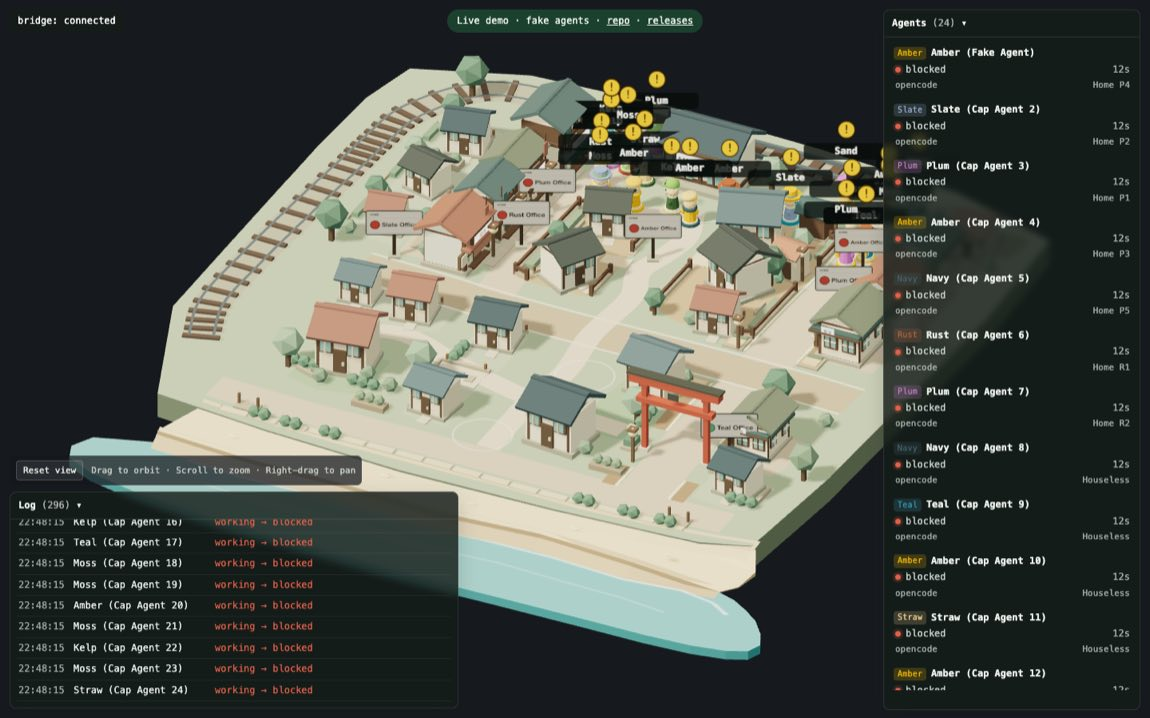
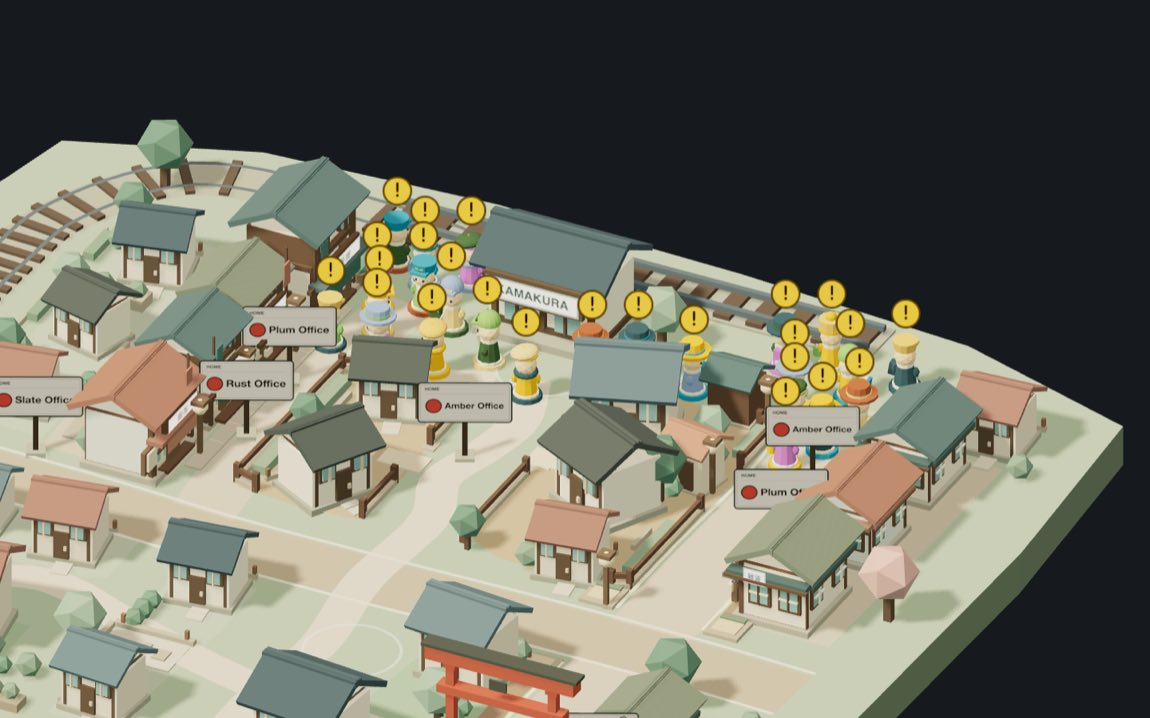
Fix the spot and approach defects the review found
Four defects, all reproduced against the FAKE cap scenario:

- A resident whose status changed mid-approach settled on the spot it no
  longer held, and the next resident to claim that spot settled on top of it.
  An approach to a spot the resident no longer owns is now abandoned, and a
  finished approach rejects a stale spot instead of parking on it.
- A housed resident standing at an area spot whose entrance was also its
  house returned early and stayed outside with its lamp off. The early return
  now also requires the area and spot to still match.
- Seven of 72 approaches crossed dune bushes or a building. Every spot was
  re-probed against the built scene over the whole pawn disc and along its
  approach, and the entrances were re-picked from the nearest node with a
  clear straight walk. Minimum pairwise spacing inside an area is now 0.551.
- At the cap the name tags overlapped into a black band that hid the
  characters they named. Tags are drawn at eight residents or fewer and for
  whichever resident is highlighted; the badge drops to its no-tag height so
  it does not hang where the tag was.

The determinism test now proves the look is identical across two separate
processes rather than twice in one, and the remaining test hook is DEV-only.

diff --git a/src/areas.ts b/src/areas.ts
@@ -1,8 +1,8 @@
 // Standing spots for the three resident areas: the beach (idle), the station
 // platform (blocked) and the town work area (working/done without a house).
-// Each spot was probed against the built scene at 0.25 world units: walkable
-// ground, clear of props, and a straight unobstructed walk from its entrance
-// graph node. Minimum pairwise distance inside an area is 0.559, so characters
+// Each spot was probed against the built scene: walkable ground, clear of props
+// over the whole pawn disc, and a straight unobstructed walk from its entrance
+// graph node. Minimum pairwise distance inside an area is 0.551, so characters
 // stand apart for any count up to the visible cap.
 export type AreaName = "beach" | "station" | "worksite";
 
@@ -16,80 +16,77 @@ export interface AreaSpot {
 }
 
 export const AREA_SPOTS: readonly AreaSpot[] = [
-  // beach
   { id: "beach-01", area: "beach", entrance: "F-W", x: -5.5, y: 0.549, z: 6.25 },
   { id: "beach-02", area: "beach", entrance: "F-W", x: -4.75, y: 0.556, z: 6.25 },
-  { id: "beach-03", area: "beach", entrance: "F-W", x: -4, y: 0.59, z: 6.25 },
+  { id: "beach-03", area: "beach", entrance: "F-W", x: -4.0, y: 0.542, z: 6.45 },
   { id: "beach-04", area: "beach", entrance: "CJ-C", x: -2.5, y: 0.59, z: 6.25 },
   { id: "beach-05", area: "beach", entrance: "CJ-C", x: -1.5, y: 0.59, z: 6.25 },
   { id: "beach-06", area: "beach", entrance: "CJ-C", x: -0.75, y: 0.59, z: 6.25 },
   { id: "beach-07", area: "beach", entrance: "CJ-C", x: 0.5, y: 0.59, z: 6.25 },
   { id: "beach-08", area: "beach", entrance: "CJ-C", x: 1.25, y: 0.59, z: 6.25 },
   { id: "beach-09", area: "beach", entrance: "CJ-C", x: 2.25, y: 0.59, z: 6.25 },
-  { id: "beach-10", area: "beach", entrance: "CJ-E", x: 3.5, y: 0.59, z: 6.25 },
-  { id: "beach-11", area: "beach", entrance: "P5", x: 4.25, y: 0.59, z: 6.25 },
-  { id: "beach-12", area: "beach", entrance: "F-W", x: -3.5, y: 0.539, z: 6.5 },
-  { id: "beach-13", area: "beach", entrance: "CJ-C", x: 0, y: 0.542, z: 6.5 },
-  { id: "beach-14", area: "beach", entrance: "CJ-E", x: 3, y: 0.545, z: 6.5 },
+  { id: "beach-10", area: "beach", entrance: "F-E", x: 4.0, y: 0.531, z: 6.6 },
+  { id: "beach-11", area: "beach", entrance: "F-E", x: 4.54, y: 0.55, z: 6.36 },
+  { id: "beach-12", area: "beach", entrance: "CJ-C", x: -3.45, y: 0.54, z: 6.5 },
+  { id: "beach-13", area: "beach", entrance: "CJ-C", x: 0.0, y: 0.542, z: 6.5 },
+  { id: "beach-14", area: "beach", entrance: "CJ-E", x: 3.0, y: 0.545, z: 6.5 },
   { id: "beach-15", area: "beach", entrance: "F-W", x: -5.25, y: 0.525, z: 6.75 },
   { id: "beach-16", area: "beach", entrance: "CJ-C", x: -0.5, y: 0.525, z: 6.75 },
   { id: "beach-17", area: "beach", entrance: "CJ-C", x: 1.5, y: 0.525, z: 6.75 },
   { id: "beach-18", area: "beach", entrance: "CJ-C", x: 2.5, y: 0.525, z: 6.75 },
   { id: "beach-19", area: "beach", entrance: "F-W", x: -4.25, y: 0.525, z: 7.0 },
   { id: "beach-20", area: "beach", entrance: "F-W", x: -2.75, y: 0.525, z: 7.0 },
-  { id: "beach-21", area: "beach", entrance: "CJ-C", x: -2, y: 0.525, z: 7.0 },
-  { id: "beach-22", area: "beach", entrance: "CJ-C", x: -1, y: 0.525, z: 7.0 },
+  { id: "beach-21", area: "beach", entrance: "CJ-C", x: -2.0, y: 0.525, z: 7.0 },
+  { id: "beach-22", area: "beach", entrance: "CJ-C", x: -1.0, y: 0.525, z: 7.0 },
   { id: "beach-23", area: "beach", entrance: "CJ-C", x: 0.75, y: 0.525, z: 7.0 },
-  { id: "beach-24", area: "beach", entrance: "CJ-C", x: 2, y: 0.525, z: 7.0 },
-  // station
-  { id: "station-01", area: "station", entrance: "road-2-N", x: 3, y: 0.59, z: -6.75 },
-  { id: "station-02", area: "station", entrance: "road-2-N", x: 4, y: 0.59, z: -6.75 },
+  { id: "beach-24", area: "beach", entrance: "CJ-C", x: 2.0, y: 0.525, z: 7.0 },
+  { id: "station-01", area: "station", entrance: "road-2-N", x: 3.0, y: 0.59, z: -6.75 },
+  { id: "station-02", area: "station", entrance: "road-2-N", x: 4.0, y: 0.59, z: -6.75 },
   { id: "station-03", area: "station", entrance: "road-1-N", x: -2.75, y: 0.59, z: -6.5 },
   { id: "station-04", area: "station", entrance: "road-1-N", x: -1.75, y: 0.59, z: -6.5 },
   { id: "station-05", area: "station", entrance: "road-2-N", x: 2.5, y: 0.59, z: -6.5 },
   { id: "station-06", area: "station", entrance: "road-1-N", x: -2.25, y: 0.59, z: -6.25 },
   { id: "station-07", area: "station", entrance: "road-2-N", x: 3.5, y: 0.59, z: -6.25 },
-  { id: "station-08", area: "station", entrance: "Onari-north", x: -2, y: 0.6, z: -5.75 },
-  { id: "station-09", area: "station", entrance: "road-2-N", x: 3, y: 0.59, z: -5.75 },
+  { id: "station-08", area: "station", entrance: "Onari-north", x: -2.0, y: 0.6, z: -5.75 },
+  { id: "station-09", area: "station", entrance: "road-2-N", x: 3.0, y: 0.59, z: -5.75 },
   { id: "station-10", area: "station", entrance: "Onari-north", x: -2.5, y: 0.6, z: -5.5 },
   { id: "station-11", area: "station", entrance: "Onari-north", x: -1.5, y: 0.59, z: -5.5 },
-  { id: "station-12", area: "station", entrance: "S-3", x: 1, y: 0.59, z: -5.5 },
+  { id: "station-12", area: "station", entrance: "S-3", x: 1.0, y: 0.59, z: -5.5 },
   { id: "station-13", area: "station", entrance: "S-3", x: 1.75, y: 0.59, z: -5.5 },
-  { id: "station-14", area: "station", entrance: "P3", x: 4, y: 0.602, z: -5.5 },
+  { id: "station-14", area: "station", entrance: "P3", x: 4.0, y: 0.602, z: -5.5 },
   { id: "station-15", area: "station", entrance: "S-3", x: 0.5, y: 0.59, z: -5.25 },
   { id: "station-16", area: "station", entrance: "P3", x: 3.25, y: 0.602, z: -5.25 },
-  { id: "station-17", area: "station", entrance: "road-7-N", x: -2.25, y: 0.6, z: -5 },
-  { id: "station-18", area: "station", entrance: "road-7-S", x: -0.75, y: 0.59, z: -5 },
-  { id: "station-19", area: "station", entrance: "P3", x: 3.75, y: 0.602, z: -5 },
-  { id: "station-20", area: "station", entrance: "CJ-OW", x: -2.75, y: 0.6, z: -4.5 },
-  { id: "station-21", area: "station", entrance: "road-7-N", x: -2, y: 0.614, z: -4.5 },
+  { id: "station-17", area: "station", entrance: "road-7-N", x: -2.25, y: 0.6, z: -5.0 },
+  { id: "station-18", area: "station", entrance: "road-7-S", x: -0.75, y: 0.59, z: -5.0 },
+  { id: "station-19", area: "station", entrance: "P3", x: 3.75, y: 0.602, z: -5.0 },
+  { id: "station-20", area: "station", entrance: "CJ-OW", x: -2.65, y: 0.6, z: -4.5 },
+  { id: "station-21", area: "station", entrance: "road-7-N", x: -2.0, y: 0.614, z: -4.5 },
   { id: "station-22", area: "station", entrance: "road-7-S", x: -1.25, y: 0.614, z: -4.5 },
-  { id: "station-23", area: "station", entrance: "road-5-N", x: 0, y: 0.61, z: -4.5 },
+  { id: "station-23", area: "station", entrance: "road-5-N", x: 0.0, y: 0.61, z: -4.5 },
   { id: "station-24", area: "station", entrance: "P3", x: 3.5, y: 0.602, z: -4.5 },
-  // worksite
-  { id: "worksite-01", area: "worksite", entrance: "J-5-6", x: -1, y: 0.59, z: 3.25 },
+  { id: "worksite-01", area: "worksite", entrance: "J-5-6", x: -1.0, y: 0.59, z: 3.25 },
   { id: "worksite-02", area: "worksite", entrance: "J-5-6", x: 0.25, y: 0.61, z: 3.25 },
   { id: "worksite-03", area: "worksite", entrance: "J-5-6", x: -0.5, y: 0.59, z: 3.75 },
-  { id: "worksite-04", area: "worksite", entrance: "road-2-S", x: 4.5, y: 0.59, z: 4 },
-  { id: "worksite-05", area: "worksite", entrance: "CF-W", x: -4.5, y: 0.596, z: 4.25 },
-  { id: "worksite-06", area: "worksite", entrance: "P5", x: 3.5, y: 0.602, z: 4.25 },
-  { id: "worksite-07", area: "worksite", entrance: "road-5-S", x: 0, y: 0.61, z: 4.5 },
-  { id: "worksite-08", area: "worksite", entrance: "CF-W", x: -4.25, y: 0.59, z: 4.75 },
-  { id: "worksite-09", area: "worksite", entrance: "road-5-S", x: -1, y: 0.59, z: 4.75 },
-  { id: "worksite-10", area: "worksite", entrance: "road-2-S", x: 4, y: 0.602, z: 4.75 },
-  { id: "worksite-11", area: "worksite", entrance: "road-5-S", x: 0.75, y: 0.606, z: 5 },
-  { id: "worksite-12", area: "worksite", entrance: "road-5-S", x: 1.5, y: 0.606, z: 5 },
-  { id: "worksite-13", area: "worksite", entrance: "road-2-S", x: 2.75, y: 0.606, z: 5 },
+  { id: "worksite-04", area: "worksite", entrance: "road-2-S", x: 4.5, y: 0.59, z: 4.0 },
+  { id: "worksite-05", area: "worksite", entrance: "CF-W", x: -4.4, y: 0.596, z: 4.25 },
+  { id: "worksite-06", area: "worksite", entrance: "road-2-S", x: 3.5, y: 0.602, z: 4.25 },
+  { id: "worksite-07", area: "worksite", entrance: "road-5-S", x: 0.0, y: 0.61, z: 4.5 },
+  { id: "worksite-08", area: "worksite", entrance: "CF-W", x: -4.29, y: 0.59, z: 4.79 },
+  { id: "worksite-09", area: "worksite", entrance: "road-5-S", x: -1.0, y: 0.59, z: 4.75 },
+  { id: "worksite-10", area: "worksite", entrance: "road-2-S", x: 4.0, y: 0.602, z: 4.75 },
+  { id: "worksite-11", area: "worksite", entrance: "road-5-S", x: 0.75, y: 0.606, z: 5.0 },
+  { id: "worksite-12", area: "worksite", entrance: "road-5-S", x: 1.5, y: 0.606, z: 5.0 },
+  { id: "worksite-13", area: "worksite", entrance: "road-2-S", x: 2.75, y: 0.606, z: 5.0 },
   { id: "worksite-14", area: "worksite", entrance: "CF-W", x: -4.75, y: 0.606, z: 5.25 },
   { id: "worksite-15", area: "worksite", entrance: "CJ-C", x: -1.5, y: 0.606, z: 5.25 },
   { id: "worksite-16", area: "worksite", entrance: "CJ-C", x: -0.25, y: 0.606, z: 5.25 },
   { id: "worksite-17", area: "worksite", entrance: "CF-E", x: 4.75, y: 0.606, z: 5.25 },
   { id: "worksite-18", area: "worksite", entrance: "CF-W", x: -3.75, y: 0.606, z: 5.5 },
   { id: "worksite-19", area: "worksite", entrance: "CJ-E", x: 3.5, y: 0.606, z: 5.5 },
-  { id: "worksite-20", area: "worksite", entrance: "CJ-C", x: -1, y: 0.59, z: 5.75 },
+  { id: "worksite-20", area: "worksite", entrance: "CJ-C", x: -1.0, y: 0.59, z: 5.75 },
   { id: "worksite-21", area: "worksite", entrance: "CJ-C", x: 0.75, y: 0.59, z: 5.75 },
   { id: "worksite-22", area: "worksite", entrance: "CJ-C", x: 1.5, y: 0.59, z: 5.75 },
-  { id: "worksite-23", area: "worksite", entrance: "CJ-E", x: 2.25, y: 0.59, z: 5.75 },
+  { id: "worksite-23", area: "worksite", entrance: "road-2-S", x: 2.25, y: 0.59, z: 5.75 },
   { id: "worksite-24", area: "worksite", entrance: "CJ-E", x: 4.25, y: 0.59, z: 5.75 },
 ];
 

diff --git a/src/director.ts b/src/director.ts
@@ -42,6 +42,22 @@ const DOORSTEP_SECONDS = 0.9;
 /** Residents drawn as characters. The Roster still lists everyone. */
 export const VISIBLE_CAP = 24;
 
+/**
+ * Above this many residents the name tags are hidden: a tag is 1.75 world units
+ * wide and area spots sit 0.55 apart, so a full town turns the tags into one
+ * black band that hides the characters. The Roster and the highlight ring carry
+ * the names instead. Below it the town looks exactly as it did with the cast.
+ */
+const TAG_LIMIT = 8;
+/** Badge height with the tag shown, and the tag's clearance above it. */
+const BADGE_Y = 1.52;
+const TAG_GAP = 0.46;
+
+/** Whether a resident's name tag is drawn at this town size. */
+export function tagVisibleFor(actorCount: number, highlighted: boolean): boolean {
+  return actorCount <= TAG_LIMIT || highlighted;
+}
+
 const HOMES_KEY = "agent-machi.homes";
 
 interface DoorState {
@@ -77,6 +93,7 @@ interface Actor {
   fade: FadeController;
   ring: THREE.Mesh;
   tag: NameTag;
+  showTag: boolean;
   badge: StatusBadgeSprite;
   highlightTimer: ReturnType<typeof setTimeout> | null;
   debounceTimer: ReturnType<typeof setTimeout> | null;
@@ -199,9 +216,11 @@ export class Director {
     const actor = this.actors.get(paneId);
     if (!actor) return false;
     actor.ring.visible = true;
+    actor.showTag = true;
     if (actor.highlightTimer) clearTimeout(actor.highlightTimer);
     actor.highlightTimer = setTimeout(() => {
       actor.ring.visible = false;
+      actor.showTag = false;
       actor.highlightTimer = null;
     }, 2500);
     return true;
@@ -239,9 +258,22 @@ export class Director {
       if (actor.door) this.updateDoor(actor, dtSeconds);
       else if (actor.moving) actor.animator.update(dtSeconds);
       this.syncHeadBadge(actor);
+      this.syncTag(actor);
       actor.badge.update(dtSeconds);
     }
     for (const sign of this.homeSigns.values()) sign.update(dtSeconds);
+  }
+
+  /**
+   * Name tags survive a small town but not a full one: at the cap they cover
+   * each other and the characters. A highlighted resident always shows its tag.
+   * A hidden tag takes its height with it, so the status badge drops to just
+   * over the hat instead of hanging in the air where the tag used to be.
+   */
+  private syncTag(actor: Actor): void {
+    const drawn = tagVisibleFor(this.actors.size, actor.showTag);
+    actor.tag.sprite.visible = drawn && actor.traveler.visible && !actor.inside;
+    actor.badge.sprite.position.y = drawn ? BADGE_Y : BADGE_Y - TAG_GAP;
   }
 
   private setBridgeState(state: "connecting" | "online" | "offline", text: string): void {
@@ -394,12 +426,9 @@ export class Director {
     ring.visible = false;
 
     const tag = createNameTag(look.torso.name);
-    // Two tag rows, split by the resident's own hash: at the cap a single row
-    // of 24 tags overlaps into a black band and hides the characters.
-    const tagY = hash % 2 === 0 ? 1.02 : 1.30;
-    tag.sprite.position.y = tagY;
+    tag.sprite.position.y = 1.02;
     const badge = new StatusBadgeSprite(["!", "check", "work"], 0.36);
-    badge.sprite.position.set(0, tagY + 0.5, 0.02);
+    badge.sprite.position.set(0, BADGE_Y, 0.02);
     badge.sprite.renderOrder = 4;
 
     const actor: Actor = {
@@ -423,6 +452,7 @@ export class Director {
       fade: null as unknown as FadeController,
       ring,
       tag,
+      showTag: false,
       badge,
       highlightTimer: null,
       debounceTimer: null,
@@ -511,8 +541,11 @@ export class Director {
     } else if (actor.door?.kind === "door" && actor.door.phase === "entering") {
       this.abortEnter(actor);
     }
-    if (area === null && actor.door?.kind === "spot" && actor.door.phase === "entering") {
-      this.abortSpotApproach(actor);
+    // An approach to a spot the resident no longer holds is abandoned, never
+    // finished: finishing it would park the pawn on a spot another resident
+    // may already own.
+    if (actor.door?.kind === "spot" && actor.door.phase === "entering") {
+      if (actor.door.spotId !== actor.areaSpot) this.abortSpotApproach(actor);
     }
 
     if (actor.door) {
@@ -529,9 +562,17 @@ export class Director {
     if (actor.atSpot) {
       if (!standing) {
         actor.atSpot = false;
-      } else if (target === standing.entrance) {
+      } else if (
+        area === standing.area &&
+        actor.areaSpot === standing.id &&
+        target === standing.entrance
+      ) {
+        // Already standing where this status wants it.
         return;
       } else {
+        // Includes the case where a house happened to be reachable from the
+        // entrance this resident is standing at: the spot is released, so it
+        // still has to walk back before it can enter.
         this.beginSpotReturn(actor, standing);
         this.releaseSpot(actor);
         return;
@@ -685,13 +726,19 @@ export class Director {
     if (door.kind === "spot") {
       const spot = door.spotId ? spotById(door.spotId) : null;
       if (door.phase === "entering") {
+        if (door.spotId !== actor.areaSpot) {
+          // The status moved on while this walk was in flight. Do not settle
+          // on a spot the resident no longer holds: another resident may own it.
+          actor.moving = false;
+          this.placeAtNode(actor, actor.node);
+          logLine(`${actor.paneId} spot ${door.spotId ?? "?"} no longer wanted`);
+          this.retarget(actor);
+          return;
+        }
         actor.atSpot = true;
         actor.moving = false;
         actor.traveler.position.set(spot?.x ?? door.toX, spot?.y ?? this.groundY, spot?.z ?? door.toZ);
         logLine(`${actor.paneId} at spot ${door.spotId ?? "?"}`);
-        // The status may have moved on while this walk was in flight; the
-        // resident is now standing somewhere its current status does not want.
-        if (actor.areaSpot !== door.spotId) this.retarget(actor);
       } else {
         actor.atSpot = false;
         this.placeAtNode(actor, actor.node);

diff --git a/test/areas.test.ts b/test/areas.test.ts
@@ -1,6 +1,8 @@
 import assert from "node:assert/strict";
 import test from "node:test";
 import { AREA_SPOTS, pickAreaSpot, spotById, type AreaName } from "../src/areas.ts";
+import { planRoute } from "../src/planner.ts";
+import { loadGraph } from "../src/town/graph/graph.ts";
 
 const AREAS: AreaName[] = ["beach", "station", "worksite"];
 const MIN_SPACING = 0.5;
@@ -23,6 +25,22 @@ test("every spot names an entrance and sits on a walkable surface", () => {
   for (const spot of AREA_SPOTS) {
     assert.ok(spot.entrance.length > 0, spot.id);
     assert.ok(spot.y >= 0.5 && spot.y <= 0.63, `${spot.id} surface ${spot.y}`);
+  }
+});
+
+test("every spot's entrance node is walkable and actually connects to it", () => {
+  const graph = loadGraph();
+  for (const spot of AREA_SPOTS) {
+    const node = graph.nodes.get(spot.entrance);
+    assert.ok(node, `${spot.id} entrance ${spot.entrance} is not a graph node`);
+    assert.equal(node.runtimeCollisionStatus, "FINITE_SAMPLE_PASS", `${spot.entrance} is not walkable`);
+    // The coastal band is only reachable along the path, so its far spots walk
+    // in from CJ-C; 3.9 is the longest authored approach plus slack.
+    assert.ok(
+      Math.hypot(node.worldX - spot.x, node.worldZ - spot.z) <= 3.9,
+      `${spot.id} sits ${Math.hypot(node.worldX - spot.x, node.worldZ - spot.z).toFixed(2)} from ${spot.entrance}`,
+    );
+    assert.ok(planRoute(graph, "S", spot.entrance), `no route from S to ${spot.entrance}`);
   }
 });
 

diff --git a/test/characters.test.ts b/test/characters.test.ts
@@ -1,11 +1,24 @@
 import assert from "node:assert/strict";
+import { execFileSync } from "node:child_process";
 import test from "node:test";
 import { MODULES, PALETTE, lookFor } from "../src/characters.ts";
 
-test("the same resident id always gets the same module and colours", () => {
-  for (const paneId of ["ext:ci:1", "fake:p1", "w7:p2", "ext:opencode:mac-mini-ses_abc"]) {
-    assert.deepEqual(lookFor(paneId), lookFor(paneId));
-  }
+/** Looks computed by a fresh Node process, so nothing in this one can carry over. */
+function lookForInFreshProcess(paneIds: readonly string[]): unknown {
+  const module = new URL("../src/characters.ts", import.meta.url).href;
+  const script = `import { lookFor } from ${JSON.stringify(module)};
+const ids = ${JSON.stringify(paneIds)};
+process.stdout.write(JSON.stringify(ids.map((id) => lookFor(id))));`;
+  const out = execFileSync(process.execPath, ["--experimental-strip-types", "--input-type=module", "-e", script], {
+    encoding: "utf8",
+  });
+  return JSON.parse(out);
+}
+
+test("the same resident id gets the same look in two separate processes", () => {
+  const ids = ["ext:ci:1", "fake:p1", "w7:p2", "ext:opencode:mac-mini-ses_abc"];
+  assert.deepEqual(lookForInFreshProcess(ids), lookForInFreshProcess(ids));
+  assert.deepEqual(lookForInFreshProcess(ids), ids.map((id) => lookFor(id)));
 });
 
 test("ids from every bridge mode get a look, and different ids differ somewhere", () => {

diff --git a/test/tags.test.ts b/test/tags.test.ts
@@ -1,0 +1,14 @@
+import assert from "node:assert/strict";
+import test from "node:test";
+import { tagVisibleFor } from "../src/director.ts";
+
+test("name tags are drawn in a small town and withheld at the cap", () => {
+  // A tag is 1.75 world units wide and area spots sit 0.55 apart, so a full
+  // town can only draw them as one black band over the characters.
+  assert.equal(tagVisibleFor(6, false), true, "the old cast keeps its tags");
+  assert.equal(tagVisibleFor(8, false), true, "the last size that still fits");
+  assert.equal(tagVisibleFor(9, false), false, "one more and they collide");
+  assert.equal(tagVisibleFor(24, false), false, "the cap has no room for tags");
+  // Picking a resident from the Roster still names it.
+  assert.equal(tagVisibleFor(24, true), true, "a highlighted resident is named");
+});

diff --git a/src/main.ts b/src/main.ts
@@ -230,7 +230,10 @@ async function showDemoRibbon(bridgeBase: string): Promise<void> {
   }
 }
 
-window.__agentMachi = { log: getLog, positions: () => director.getPositions() };
+// Test hook for the acceptance harness: not part of the shipped page.
+if (import.meta.env.DEV) {
+  window.__agentMachi = { log: getLog, positions: () => director.getPositions() };
+}
 
 const clock = new THREE.Clock();
 function frame(): void {

diff --git a/README.md b/README.md
@@ -163,12 +163,14 @@ One JSON object, at most 8 KiB, no unknown fields, and no trailing data.
 `ext:<source>:<id>`, and two sources may use the same id. The Roster display
 name falls back from the trimmed `name` to the trimmed `agent` to the pane id,
 and duplicate display names get a numeric suffix. Up to 24 residents are drawn
-as characters at a time, each with its own look and a name tag; agents beyond
-the 24th appear in the Roster and the Log only. The first seven to arrive get
-the authored houses and an office sign reading their character name, for
-example `Amber Office`, never the reported name; everyone else works from the
-work area and is labelled `Houseless` in the Roster. A resident gives its house
-up when it leaves.
+as characters at a time, each with its own look; agents beyond the 24th appear
+in the Roster and the Log only. Name tags are drawn while the town holds eight
+residents or fewer, and for whichever resident is highlighted from the Roster;
+above that they would overlap into a single band and hide the characters. The
+first seven to arrive get the authored houses and an office sign reading their
+character name, for example `Amber Office`, never the reported name; everyone
+else works from the work area and is labelled `Houseless` in the Roster. A
+resident gives its house up when it leaves.
 
 Response:
 
